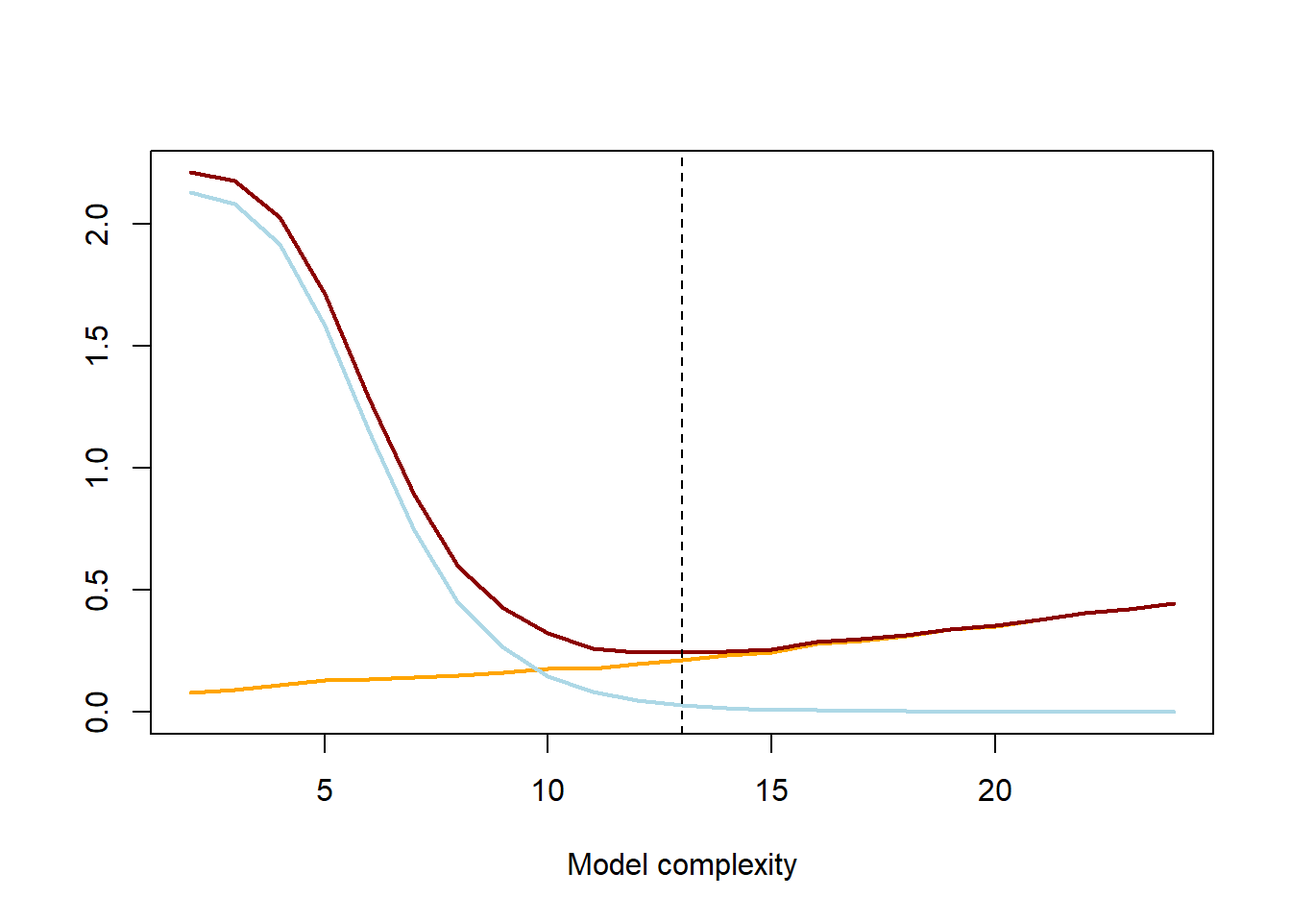
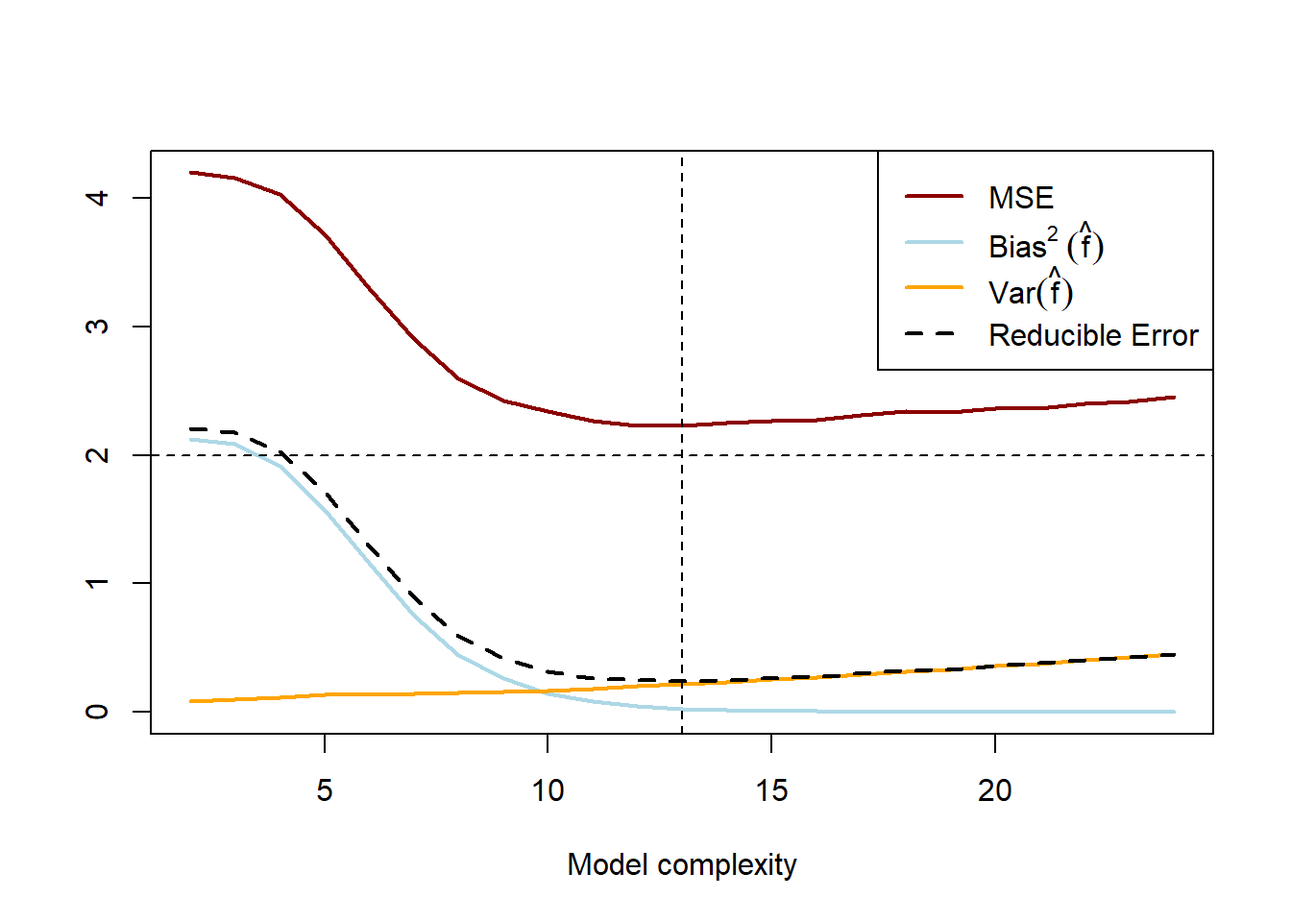
Done up until 2.2

diff --git a/docs/supervised-learning.html b/docs/supervised-learning.html
@@ -276,8 +276,7 @@ E\left\{\left[\hat{f} - E(\hat{f})\right] \left[E(\hat{f}) - f\right]\right\} &a
 <div id="example-1-simulation-1" class="section level3 hasAnchor" number="2.1.1">
 <h3><span class="header-section-number">2.1.1</span> Example 1 – Simulation 1<a href="supervised-learning.html#example-1-simulation-1" class="anchor-section" aria-label="Anchor link to header"></a></h3>
 <p>To allow for easy visualisation, let us consider a simple model with only one feature:</p>
-<p><span class="math display">\[Y = X + 2\cos(5X) + \epsilon,\]</span>
-where <span class="math inline">\(\epsilon \sim N(0, 2)\)</span>.</p>
+<p><span class="math display">\[Y = X + 2\cos(5X) + \epsilon,\]</span> where <span class="math inline">\(\epsilon \sim N(0, 2)\)</span>.</p>
 <p>Below we simulate <span class="math inline">\(n = 100\)</span> observations from <span class="math inline">\(X \sim U(-2,2)\)</span>, to which we fit cubic smoothing splines of increasing complexity. [Splines are beyond the scope of this course, but provide an easy-to-see illustration of “flexibility”]</p>
 <div class="sourceCode" id="cb1"><pre class="sourceCode r"><code class="sourceCode r"><span id="cb1-1"><a href="supervised-learning.html#cb1-1" aria-hidden="true" tabindex="-1"></a><span class="fu">set.seed</span>(<span class="dv">4026</span>)</span>
 <span id="cb1-2"><a href="supervised-learning.html#cb1-2" aria-hidden="true" tabindex="-1"></a></span>
@@ -299,26 +298,26 @@ where <span class="math inline">\(\epsilon \sim N(0, 2)\)</span>.</p>
 <span id="cb1-18"><a href="supervised-learning.html#cb1-18" aria-hidden="true" tabindex="-1"></a>  <span class="fu">legend</span>(<span class="st">&#39;bottomright&#39;</span>, <span class="fu">c</span>(<span class="st">&#39;f(x) - True&#39;</span>, <span class="fu">expression</span>(<span class="fu">hat</span>(f)(x) <span class="sc">~</span> <span class="st">&#39;- Cubic spline&#39;</span>)), </span>
 <span id="cb1-19"><a href="supervised-learning.html#cb1-19" aria-hidden="true" tabindex="-1"></a>         <span class="at">col =</span> <span class="fu">c</span>(<span class="st">&#39;black&#39;</span>, <span class="st">&#39;blue&#39;</span>), <span class="at">lty =</span> <span class="dv">1</span>, <span class="at">lwd =</span> <span class="dv">2</span>)</span>
 <span id="cb1-20"><a href="supervised-learning.html#cb1-20" aria-hidden="true" tabindex="-1"></a>}</span></code></pre></div>
-<p><img src="figs/unnamed-chunk-144-.gif" width="672" /></p>
+<p><img src="figs/unnamed-chunk-2-.gif" width="672" /></p>
 <p>This serves to illustrate how the model’s degrees of freedom is directly proportional to the model’s complexity. However, to extricate the bias and variance components, we need to observe these models’ fit on out-of-sample data across many random realisations of training samples.</p>
-<p>In the following simulation we again observe <span class="math inline">\(n=100\)</span> training observations at a time, to which the same models of varying complexity as above are fitted. Each model’s fit is then assessed on a fixed set of <span class="math inline">\(100\)</span> testing observations. This process is repeated <span class="math inline">\(250\)</span> times, such that we can keep track of how each test observation’s predictions vary across the iterations, as well as the errors.</p>
+<p>In the following simulation we again observe <span class="math inline">\(n=100\)</span> training observations at a time, to which the same models of varying complexity as above are fitted. Each model’s fit is then assessed on a set of 100 testing observations, where the <span class="math inline">\(\boldsymbol{x}_0\)</span> (and, therefore, true <span class="math inline">\(f(\boldsymbol{x}_0)\)</span>) are fixed, but random noise is added. This process is repeated 1000 times, such that we can keep track of how each test observation’s predictions vary across the iterations, as well as the errors.</p>
 <div class="sourceCode" id="cb2"><pre class="sourceCode r"><code class="sourceCode r"><span id="cb2-1"><a href="supervised-learning.html#cb2-1" aria-hidden="true" tabindex="-1"></a><span class="fu">set.seed</span>(<span class="dv">1</span>)</span>
 <span id="cb2-2"><a href="supervised-learning.html#cb2-2" aria-hidden="true" tabindex="-1"></a></span>
-<span id="cb2-3"><a href="supervised-learning.html#cb2-3" aria-hidden="true" tabindex="-1"></a>n <span class="ot">&lt;-</span> <span class="dv">100</span>        <span class="co">#Sample size</span></span>
-<span id="cb2-4"><a href="supervised-learning.html#cb2-4" aria-hidden="true" tabindex="-1"></a>num_sims <span class="ot">&lt;-</span> <span class="dv">1000</span><span class="co">#Number of iterations</span></span>
-<span id="cb2-5"><a href="supervised-learning.html#cb2-5" aria-hidden="true" tabindex="-1"></a>dofs <span class="ot">&lt;-</span> <span class="dv">2</span><span class="sc">:</span><span class="dv">24</span>    <span class="co">#Model complexities</span></span>
-<span id="cb2-6"><a href="supervised-learning.html#cb2-6" aria-hidden="true" tabindex="-1"></a></span>
-<span id="cb2-7"><a href="supervised-learning.html#cb2-7" aria-hidden="true" tabindex="-1"></a>pred_mat <span class="ot">&lt;-</span> <span class="fu">matrix</span>(<span class="at">nrow =</span> num_sims, <span class="at">ncol =</span> n) <span class="co">#To store each set of predictions</span></span>
-<span id="cb2-8"><a href="supervised-learning.html#cb2-8" aria-hidden="true" tabindex="-1"></a>mses <span class="ot">&lt;-</span> <span class="fu">vector</span>(<span class="at">length =</span> num_sims)     <span class="co">#Also want to track the testing MSEs</span></span>
-<span id="cb2-9"><a href="supervised-learning.html#cb2-9" aria-hidden="true" tabindex="-1"></a>red_err <span class="ot">&lt;-</span> <span class="fu">vector</span>(<span class="at">length =</span> num_sims)  <span class="co">#As well as the reducible error</span></span>
-<span id="cb2-10"><a href="supervised-learning.html#cb2-10" aria-hidden="true" tabindex="-1"></a></span>
-<span id="cb2-11"><a href="supervised-learning.html#cb2-11" aria-hidden="true" tabindex="-1"></a><span class="co">#Herein we will capture the deconstructed components for each model</span></span>
-<span id="cb2-12"><a href="supervised-learning.html#cb2-12" aria-hidden="true" tabindex="-1"></a>results <span class="ot">&lt;-</span> <span class="fu">data.frame</span>(<span class="at">Var =</span> <span class="cn">NA</span>, <span class="at">Bias2 =</span> <span class="cn">NA</span>, <span class="at">Red_err =</span> <span class="cn">NA</span>, <span class="at">MSE =</span> <span class="cn">NA</span>)</span>
-<span id="cb2-13"><a href="supervised-learning.html#cb2-13" aria-hidden="true" tabindex="-1"></a></span>
-<span id="cb2-14"><a href="supervised-learning.html#cb2-14" aria-hidden="true" tabindex="-1"></a><span class="co">#Testing data</span></span>
-<span id="cb2-15"><a href="supervised-learning.html#cb2-15" aria-hidden="true" tabindex="-1"></a>x_test <span class="ot">&lt;-</span> <span class="fu">runif</span>(n, <span class="sc">-</span><span class="dv">2</span>, <span class="dv">2</span>)</span>
-<span id="cb2-16"><a href="supervised-learning.html#cb2-16" aria-hidden="true" tabindex="-1"></a>f_test <span class="ot">&lt;-</span> x_test <span class="sc">+</span> <span class="dv">2</span><span class="sc">*</span><span class="fu">cos</span>(<span class="dv">5</span><span class="sc">*</span>x_test) <span class="co">#This is the part we don&#39;t know outside sims!!</span></span>
-<span id="cb2-17"><a href="supervised-learning.html#cb2-17" aria-hidden="true" tabindex="-1"></a>y_test <span class="ot">&lt;-</span> f_test <span class="sc">+</span> <span class="fu">rnorm</span>(n, <span class="at">sd =</span> <span class="fu">sqrt</span>(<span class="dv">2</span>))</span>
+<span id="cb2-3"><a href="supervised-learning.html#cb2-3" aria-hidden="true" tabindex="-1"></a>n <span class="ot">&lt;-</span> <span class="dv">100</span>          <span class="co">#Sample size</span></span>
+<span id="cb2-4"><a href="supervised-learning.html#cb2-4" aria-hidden="true" tabindex="-1"></a>num_sims <span class="ot">&lt;-</span> <span class="dv">1000</span>  <span class="co">#Number of iterations (could be parallelised)</span></span>
+<span id="cb2-5"><a href="supervised-learning.html#cb2-5" aria-hidden="true" tabindex="-1"></a>dofs <span class="ot">&lt;-</span> <span class="dv">2</span><span class="sc">:</span><span class="dv">25</span>      <span class="co">#Model complexities</span></span>
+<span id="cb2-6"><a href="supervised-learning.html#cb2-6" aria-hidden="true" tabindex="-1"></a>var_eps <span class="ot">&lt;-</span> <span class="dv">2</span>      <span class="co">#Var(epsilon): The irreducible error</span></span>
+<span id="cb2-7"><a href="supervised-learning.html#cb2-7" aria-hidden="true" tabindex="-1"></a></span>
+<span id="cb2-8"><a href="supervised-learning.html#cb2-8" aria-hidden="true" tabindex="-1"></a>pred_mat <span class="ot">&lt;-</span> <span class="fu">matrix</span>(<span class="at">nrow =</span> num_sims, <span class="at">ncol =</span> n) <span class="co">#To store each set of predictions</span></span>
+<span id="cb2-9"><a href="supervised-learning.html#cb2-9" aria-hidden="true" tabindex="-1"></a>mses <span class="ot">&lt;-</span> <span class="fu">vector</span>(<span class="at">length =</span> num_sims)             <span class="co">#Also want to track the testing MSEs</span></span>
+<span id="cb2-10"><a href="supervised-learning.html#cb2-10" aria-hidden="true" tabindex="-1"></a>red_err <span class="ot">&lt;-</span> <span class="fu">vector</span>(<span class="at">length =</span> num_sims)          <span class="co">#As well as the reducible error</span></span>
+<span id="cb2-11"><a href="supervised-learning.html#cb2-11" aria-hidden="true" tabindex="-1"></a></span>
+<span id="cb2-12"><a href="supervised-learning.html#cb2-12" aria-hidden="true" tabindex="-1"></a><span class="co">#Herein we will capture the deconstructed components for each model</span></span>
+<span id="cb2-13"><a href="supervised-learning.html#cb2-13" aria-hidden="true" tabindex="-1"></a>results <span class="ot">&lt;-</span> <span class="fu">data.frame</span>(<span class="at">Var =</span> <span class="cn">NA</span>, <span class="at">Bias2 =</span> <span class="cn">NA</span>, <span class="at">Red_err =</span> <span class="cn">NA</span>, <span class="at">MSE =</span> <span class="cn">NA</span>)</span>
+<span id="cb2-14"><a href="supervised-learning.html#cb2-14" aria-hidden="true" tabindex="-1"></a></span>
+<span id="cb2-15"><a href="supervised-learning.html#cb2-15" aria-hidden="true" tabindex="-1"></a><span class="co">#Testing data</span></span>
+<span id="cb2-16"><a href="supervised-learning.html#cb2-16" aria-hidden="true" tabindex="-1"></a>x_test <span class="ot">&lt;-</span> <span class="fu">runif</span>(n, <span class="sc">-</span><span class="dv">2</span>, <span class="dv">2</span>)</span>
+<span id="cb2-17"><a href="supervised-learning.html#cb2-17" aria-hidden="true" tabindex="-1"></a>f_test <span class="ot">&lt;-</span> x_test <span class="sc">+</span> <span class="dv">2</span><span class="sc">*</span><span class="fu">cos</span>(<span class="dv">5</span><span class="sc">*</span>x_test) <span class="co">#This is the part we don&#39;t know outside sims!!</span></span>
 <span id="cb2-18"><a href="supervised-learning.html#cb2-18" aria-hidden="true" tabindex="-1"></a></span>
 <span id="cb2-19"><a href="supervised-learning.html#cb2-19" aria-hidden="true" tabindex="-1"></a>d <span class="ot">&lt;-</span> <span class="dv">0</span> <span class="co">#To keep track of dof iterations, whilst easily changing the range above</span></span>
 <span id="cb2-20"><a href="supervised-learning.html#cb2-20" aria-hidden="true" tabindex="-1"></a></span>
@@ -328,37 +327,67 @@ where <span class="math inline">\(\epsilon \sim N(0, 2)\)</span>.</p>
 <span id="cb2-24"><a href="supervised-learning.html#cb2-24" aria-hidden="true" tabindex="-1"></a>    </span>
 <span id="cb2-25"><a href="supervised-learning.html#cb2-25" aria-hidden="true" tabindex="-1"></a>    <span class="co">#Training data</span></span>
 <span id="cb2-26"><a href="supervised-learning.html#cb2-26" aria-hidden="true" tabindex="-1"></a>    x_train <span class="ot">&lt;-</span> <span class="fu">runif</span>(n, <span class="sc">-</span><span class="dv">2</span>, <span class="dv">2</span>)</span>
-<span id="cb2-27"><a href="supervised-learning.html#cb2-27" aria-hidden="true" tabindex="-1"></a>    y_train <span class="ot">&lt;-</span> x_train <span class="sc">+</span> <span class="dv">2</span><span class="sc">*</span><span class="fu">cos</span>(<span class="dv">5</span><span class="sc">*</span>x_train) <span class="sc">+</span> <span class="fu">rnorm</span>(n, <span class="at">sd =</span> <span class="fu">sqrt</span>(<span class="dv">2</span>))</span>
-<span id="cb2-28"><a href="supervised-learning.html#cb2-28" aria-hidden="true" tabindex="-1"></a>    </span>
-<span id="cb2-29"><a href="supervised-learning.html#cb2-29" aria-hidden="true" tabindex="-1"></a>    <span class="co">#Fit cubic spline</span></span>
-<span id="cb2-30"><a href="supervised-learning.html#cb2-30" aria-hidden="true" tabindex="-1"></a>    spline_mod <span class="ot">&lt;-</span> <span class="fu">smooth.spline</span>(x_train, y_train, <span class="at">df =</span> dof)</span>
+<span id="cb2-27"><a href="supervised-learning.html#cb2-27" aria-hidden="true" tabindex="-1"></a>    y_train <span class="ot">&lt;-</span> x_train <span class="sc">+</span> <span class="dv">2</span><span class="sc">*</span><span class="fu">cos</span>(<span class="dv">5</span><span class="sc">*</span>x_train) <span class="sc">+</span> <span class="fu">rnorm</span>(n, <span class="at">sd =</span> <span class="fu">sqrt</span>(var_eps))</span>
+<span id="cb2-28"><a href="supervised-learning.html#cb2-28" aria-hidden="true" tabindex="-1"></a></span>
+<span id="cb2-29"><a href="supervised-learning.html#cb2-29" aria-hidden="true" tabindex="-1"></a>    <span class="co">#Add the noise</span></span>
+<span id="cb2-30"><a href="supervised-learning.html#cb2-30" aria-hidden="true" tabindex="-1"></a>    y_test <span class="ot">&lt;-</span> f_test <span class="sc">+</span> <span class="fu">rnorm</span>(n, <span class="at">sd =</span> <span class="fu">sqrt</span>(var_eps))</span>
 <span id="cb2-31"><a href="supervised-learning.html#cb2-31" aria-hidden="true" tabindex="-1"></a>    </span>
-<span id="cb2-32"><a href="supervised-learning.html#cb2-32" aria-hidden="true" tabindex="-1"></a>    <span class="co">#Predict on OOS data</span></span>
-<span id="cb2-33"><a href="supervised-learning.html#cb2-33" aria-hidden="true" tabindex="-1"></a>    yhat <span class="ot">&lt;-</span> <span class="fu">predict</span>(spline_mod, x_test)<span class="sc">$</span>y</span>
+<span id="cb2-32"><a href="supervised-learning.html#cb2-32" aria-hidden="true" tabindex="-1"></a>    <span class="co">#Fit cubic spline</span></span>
+<span id="cb2-33"><a href="supervised-learning.html#cb2-33" aria-hidden="true" tabindex="-1"></a>    spline_mod <span class="ot">&lt;-</span> <span class="fu">smooth.spline</span>(x_train, y_train, <span class="at">df =</span> dof)</span>
 <span id="cb2-34"><a href="supervised-learning.html#cb2-34" aria-hidden="true" tabindex="-1"></a>    </span>
-<span id="cb2-35"><a href="supervised-learning.html#cb2-35" aria-hidden="true" tabindex="-1"></a>    <span class="co">#And store</span></span>
-<span id="cb2-36"><a href="supervised-learning.html#cb2-36" aria-hidden="true" tabindex="-1"></a>    pred_mat[iter, ] <span class="ot">&lt;-</span> yhat</span>
-<span id="cb2-37"><a href="supervised-learning.html#cb2-37" aria-hidden="true" tabindex="-1"></a>    red_err[iter] <span class="ot">&lt;-</span> <span class="fu">mean</span>((f_test <span class="sc">-</span> yhat)<span class="sc">^</span><span class="dv">2</span>)</span>
-<span id="cb2-38"><a href="supervised-learning.html#cb2-38" aria-hidden="true" tabindex="-1"></a>    mses[iter] <span class="ot">&lt;-</span> <span class="fu">mean</span>((y_test <span class="sc">-</span> yhat)<span class="sc">^</span><span class="dv">2</span>)</span>
-<span id="cb2-39"><a href="supervised-learning.html#cb2-39" aria-hidden="true" tabindex="-1"></a>  }</span>
-<span id="cb2-40"><a href="supervised-learning.html#cb2-40" aria-hidden="true" tabindex="-1"></a>  </span>
-<span id="cb2-41"><a href="supervised-learning.html#cb2-41" aria-hidden="true" tabindex="-1"></a>  var_fhat <span class="ot">&lt;-</span> <span class="fu">mean</span>(<span class="fu">apply</span>(pred_mat, <span class="dv">2</span>, var)) <span class="co">#E[\hat{f} - E(\hat{f})]^2</span></span>
-<span id="cb2-42"><a href="supervised-learning.html#cb2-42" aria-hidden="true" tabindex="-1"></a>  bias2_fhat <span class="ot">&lt;-</span> <span class="fu">mean</span>((<span class="fu">colMeans</span>(pred_mat) <span class="sc">-</span> f_test)<span class="sc">^</span><span class="dv">2</span>) <span class="co">#[E(\hat{f}) - f]^2</span></span>
-<span id="cb2-43"><a href="supervised-learning.html#cb2-43" aria-hidden="true" tabindex="-1"></a>  reducible <span class="ot">&lt;-</span> <span class="fu">mean</span>(red_err) <span class="co">#E[f - \hat{f}]^2</span></span>
-<span id="cb2-44"><a href="supervised-learning.html#cb2-44" aria-hidden="true" tabindex="-1"></a>  MSE <span class="ot">&lt;-</span> <span class="fu">mean</span>(mses)          <span class="co">#E[y_0 - \hat{f}]^2</span></span>
-<span id="cb2-45"><a href="supervised-learning.html#cb2-45" aria-hidden="true" tabindex="-1"></a>  </span>
-<span id="cb2-46"><a href="supervised-learning.html#cb2-46" aria-hidden="true" tabindex="-1"></a>  results[d, ] <span class="ot">&lt;-</span> <span class="fu">c</span>(var_fhat, bias2_fhat, reducible, MSE)</span>
-<span id="cb2-47"><a href="supervised-learning.html#cb2-47" aria-hidden="true" tabindex="-1"></a>}</span>
-<span id="cb2-48"><a href="supervised-learning.html#cb2-48" aria-hidden="true" tabindex="-1"></a></span>
-<span id="cb2-49"><a href="supervised-learning.html#cb2-49" aria-hidden="true" tabindex="-1"></a><span class="co">#Plot the results</span></span>
-<span id="cb2-50"><a href="supervised-learning.html#cb2-50" aria-hidden="true" tabindex="-1"></a></span>
-<span id="cb2-51"><a href="supervised-learning.html#cb2-51" aria-hidden="true" tabindex="-1"></a><span class="fu">plot</span>(dofs, results<span class="sc">$</span>Var, <span class="st">&#39;l&#39;</span>, <span class="at">col =</span> <span class="st">&#39;orange&#39;</span>, <span class="at">lwd =</span> <span class="dv">2</span>,</span>
-<span id="cb2-52"><a href="supervised-learning.html#cb2-52" aria-hidden="true" tabindex="-1"></a>     <span class="at">xlab =</span> <span class="st">&#39;Model complexity&#39;</span>, <span class="at">ylab =</span> <span class="st">&#39;&#39;</span>, <span class="at">ylim =</span> <span class="fu">c</span>(<span class="dv">0</span>, <span class="fu">max</span>(results[,<span class="sc">-</span><span class="dv">4</span>])))</span>
-<span id="cb2-53"><a href="supervised-learning.html#cb2-53" aria-hidden="true" tabindex="-1"></a><span class="fu">lines</span>(dofs, results<span class="sc">$</span>Bias2, <span class="st">&#39;l&#39;</span>, <span class="at">col =</span> <span class="st">&#39;lightblue&#39;</span>, <span class="at">lwd =</span> <span class="dv">2</span>)</span>
-<span id="cb2-54"><a href="supervised-learning.html#cb2-54" aria-hidden="true" tabindex="-1"></a><span class="fu">lines</span>(dofs, results<span class="sc">$</span>Red_err, <span class="st">&#39;l&#39;</span>, <span class="at">col =</span> <span class="st">&#39;darkred&#39;</span>, <span class="at">lwd =</span> <span class="dv">2</span>)</span>
-<span id="cb2-55"><a href="supervised-learning.html#cb2-55" aria-hidden="true" tabindex="-1"></a><span class="fu">abline</span>(<span class="at">v =</span> dofs[<span class="fu">which.min</span>(results<span class="sc">$</span>Red_err)], <span class="at">lty =</span> <span class="dv">2</span>)</span></code></pre></div>
-<p><img src="figs/unnamed-chunk-145-1.png" width="672" /></p>
-<div class="sourceCode" id="cb3"><pre class="sourceCode r"><code class="sourceCode r"><span id="cb3-1"><a href="supervised-learning.html#cb3-1" aria-hidden="true" tabindex="-1"></a><span class="co"># lines(dofs, results[, 4], &#39;l&#39;, lwd = 2)</span></span></code></pre></div>
+<span id="cb2-35"><a href="supervised-learning.html#cb2-35" aria-hidden="true" tabindex="-1"></a>    <span class="co">#Predict on OOS data</span></span>
+<span id="cb2-36"><a href="supervised-learning.html#cb2-36" aria-hidden="true" tabindex="-1"></a>    yhat <span class="ot">&lt;-</span> <span class="fu">predict</span>(spline_mod, x_test)<span class="sc">$</span>y</span>
+<span id="cb2-37"><a href="supervised-learning.html#cb2-37" aria-hidden="true" tabindex="-1"></a>    </span>
+<span id="cb2-38"><a href="supervised-learning.html#cb2-38" aria-hidden="true" tabindex="-1"></a>    <span class="co">#And store</span></span>
+<span id="cb2-39"><a href="supervised-learning.html#cb2-39" aria-hidden="true" tabindex="-1"></a>    pred_mat[iter, ] <span class="ot">&lt;-</span> yhat</span>
+<span id="cb2-40"><a href="supervised-learning.html#cb2-40" aria-hidden="true" tabindex="-1"></a>    red_err[iter] <span class="ot">&lt;-</span> <span class="fu">mean</span>((f_test <span class="sc">-</span> yhat)<span class="sc">^</span><span class="dv">2</span>)</span>
+<span id="cb2-41"><a href="supervised-learning.html#cb2-41" aria-hidden="true" tabindex="-1"></a>    mses[iter] <span class="ot">&lt;-</span> <span class="fu">mean</span>((y_test <span class="sc">-</span> yhat)<span class="sc">^</span><span class="dv">2</span>)</span>
+<span id="cb2-42"><a href="supervised-learning.html#cb2-42" aria-hidden="true" tabindex="-1"></a>  }</span>
+<span id="cb2-43"><a href="supervised-learning.html#cb2-43" aria-hidden="true" tabindex="-1"></a>  </span>
+<span id="cb2-44"><a href="supervised-learning.html#cb2-44" aria-hidden="true" tabindex="-1"></a>  var_fhat <span class="ot">&lt;-</span> <span class="fu">mean</span>(<span class="fu">apply</span>(pred_mat, <span class="dv">2</span>, var))           <span class="co">#E[\hat{f} - E(\hat{f})]^2</span></span>
+<span id="cb2-45"><a href="supervised-learning.html#cb2-45" aria-hidden="true" tabindex="-1"></a>  bias2_fhat <span class="ot">&lt;-</span> <span class="fu">mean</span>((<span class="fu">colMeans</span>(pred_mat) <span class="sc">-</span> f_test)<span class="sc">^</span><span class="dv">2</span>) <span class="co">#E[E(\hat{f}) - f]^2</span></span>
+<span id="cb2-46"><a href="supervised-learning.html#cb2-46" aria-hidden="true" tabindex="-1"></a>  reducible <span class="ot">&lt;-</span> <span class="fu">mean</span>(red_err)                          <span class="co">#E[f - \hat{f}]^2</span></span>
+<span id="cb2-47"><a href="supervised-learning.html#cb2-47" aria-hidden="true" tabindex="-1"></a>  MSE <span class="ot">&lt;-</span> <span class="fu">mean</span>(mses)                                   <span class="co">#E[y_0 - \hat{f}]^2</span></span>
+<span id="cb2-48"><a href="supervised-learning.html#cb2-48" aria-hidden="true" tabindex="-1"></a>  </span>
+<span id="cb2-49"><a href="supervised-learning.html#cb2-49" aria-hidden="true" tabindex="-1"></a>  results[d, ] <span class="ot">&lt;-</span> <span class="fu">c</span>(var_fhat, bias2_fhat, reducible, MSE)</span>
+<span id="cb2-50"><a href="supervised-learning.html#cb2-50" aria-hidden="true" tabindex="-1"></a>}</span>
+<span id="cb2-51"><a href="supervised-learning.html#cb2-51" aria-hidden="true" tabindex="-1"></a></span>
+<span id="cb2-52"><a href="supervised-learning.html#cb2-52" aria-hidden="true" tabindex="-1"></a><span class="co">#Plot the results</span></span>
+<span id="cb2-53"><a href="supervised-learning.html#cb2-53" aria-hidden="true" tabindex="-1"></a><span class="fu">plot</span>(dofs, results<span class="sc">$</span>MSE, <span class="st">&#39;l&#39;</span>, <span class="at">col =</span> <span class="st">&#39;darkred&#39;</span>, <span class="at">lwd =</span> <span class="dv">2</span>,</span>
+<span id="cb2-54"><a href="supervised-learning.html#cb2-54" aria-hidden="true" tabindex="-1"></a>     <span class="at">xlab =</span> <span class="st">&#39;Model complexity&#39;</span>, <span class="at">ylab =</span> <span class="st">&#39;&#39;</span>, <span class="at">ylim =</span> <span class="fu">c</span>(<span class="dv">0</span>, <span class="fu">max</span>(results)))</span>
+<span id="cb2-55"><a href="supervised-learning.html#cb2-55" aria-hidden="true" tabindex="-1"></a><span class="fu">lines</span>(dofs, results<span class="sc">$</span>Bias2, <span class="st">&#39;l&#39;</span>, <span class="at">col =</span> <span class="st">&#39;lightblue&#39;</span>, <span class="at">lwd =</span> <span class="dv">2</span>)</span>
+<span id="cb2-56"><a href="supervised-learning.html#cb2-56" aria-hidden="true" tabindex="-1"></a><span class="fu">lines</span>(dofs, results<span class="sc">$</span>Var, <span class="st">&#39;l&#39;</span>, <span class="at">col =</span> <span class="st">&#39;orange&#39;</span>, <span class="at">lwd =</span> <span class="dv">2</span>)</span>
+<span id="cb2-57"><a href="supervised-learning.html#cb2-57" aria-hidden="true" tabindex="-1"></a><span class="fu">lines</span>(dofs, results<span class="sc">$</span>Red_err, <span class="st">&#39;l&#39;</span>, <span class="at">lty =</span> <span class="dv">2</span>, <span class="at">lwd =</span> <span class="dv">2</span>)</span>
+<span id="cb2-58"><a href="supervised-learning.html#cb2-58" aria-hidden="true" tabindex="-1"></a><span class="fu">legend</span>(<span class="st">&#39;topright&#39;</span>, </span>
+<span id="cb2-59"><a href="supervised-learning.html#cb2-59" aria-hidden="true" tabindex="-1"></a>       <span class="fu">c</span>(<span class="st">&#39;MSE&#39;</span>, <span class="fu">expression</span>(Bias<span class="sc">^</span><span class="dv">2</span> <span class="sc">~</span> (<span class="fu">hat</span>(f))), <span class="fu">expression</span>(<span class="fu">Var</span>(<span class="fu">hat</span>(f))), <span class="st">&#39;Reducible Error&#39;</span>), </span>
+<span id="cb2-60"><a href="supervised-learning.html#cb2-60" aria-hidden="true" tabindex="-1"></a>       <span class="at">col =</span> <span class="fu">c</span>(<span class="st">&#39;darkred&#39;</span>, <span class="st">&#39;lightblue&#39;</span>, <span class="st">&#39;orange&#39;</span>, <span class="st">&#39;black&#39;</span>), <span class="at">lty =</span> <span class="fu">c</span>(<span class="fu">rep</span>(<span class="dv">1</span>, <span class="dv">3</span>), <span class="dv">2</span>), <span class="at">lwd =</span> <span class="dv">2</span>)</span>
+<span id="cb2-61"><a href="supervised-learning.html#cb2-61" aria-hidden="true" tabindex="-1"></a></span>
+<span id="cb2-62"><a href="supervised-learning.html#cb2-62" aria-hidden="true" tabindex="-1"></a><span class="fu">abline</span>(<span class="at">v =</span> dofs[<span class="fu">which.min</span>(results<span class="sc">$</span>MSE)], <span class="at">lty =</span> <span class="dv">3</span>) <span class="co">#Complexity minimising MSE</span></span>
+<span id="cb2-63"><a href="supervised-learning.html#cb2-63" aria-hidden="true" tabindex="-1"></a><span class="fu">abline</span>(<span class="at">h =</span> var_eps, <span class="at">lty =</span> <span class="dv">3</span>)                      <span class="co">#MSE lower bound</span></span></code></pre></div>
+<div class="figure" style="text-align: center"><span style="display:block;" id="fig:b-v-trade"></span>
+<img src="figs/b-v-trade-1.png" alt="I must still write this figure caption!!" width="576" />
+<p class="caption">
+Figure 2.1: I must still write this figure caption!!
+</p>
+</div>
+<p>As a quick sanity check before interpreting this result, let us add up the components – which were calculated separately – and see whether we indeed observe that <span class="math inline">\(E\left[f - \hat{f} \right]^2 = Var\left[\hat{f}\right] + Bias^2\left[\hat{f}\right]\)</span> and <span class="math inline">\(\text{Test MSE} = E\left[y_0 - \hat{f}\right]^2 = E\left[f - \hat{f} \right]^2 + Var(\epsilon)\)</span>. Note that we will need to have a small tolerance for discrepancy, since we have approximated the expected values by averaging over only 1000 realisations. This approximation will become more accurate as the number of iterations are increased.</p>
+<div class="sourceCode" id="cb3"><pre class="sourceCode r"><code class="sourceCode r"><span id="cb3-1"><a href="supervised-learning.html#cb3-1" aria-hidden="true" tabindex="-1"></a><span class="co">#Is reducible error = var(fhat) + bias^2(fhat)?</span></span>
+<span id="cb3-2"><a href="supervised-learning.html#cb3-2" aria-hidden="true" tabindex="-1"></a><span class="fu">ifelse</span>(<span class="fu">isTRUE</span>(<span class="fu">all.equal</span>(results<span class="sc">$</span>Red_err, </span>
+<span id="cb3-3"><a href="supervised-learning.html#cb3-3" aria-hidden="true" tabindex="-1"></a>                        results<span class="sc">$</span>Var <span class="sc">+</span> results<span class="sc">$</span>Bias2, </span>
+<span id="cb3-4"><a href="supervised-learning.html#cb3-4" aria-hidden="true" tabindex="-1"></a>                        <span class="at">tolerance =</span> <span class="fl">0.001</span>)),</span>
+<span id="cb3-5"><a href="supervised-learning.html#cb3-5" aria-hidden="true" tabindex="-1"></a>       <span class="st">&#39;Happy days! :D&#39;</span>, </span>
+<span id="cb3-6"><a href="supervised-learning.html#cb3-6" aria-hidden="true" tabindex="-1"></a>       <span class="st">&#39;Haibo...&#39;</span>)</span></code></pre></div>
+<pre><code>## [1] &quot;Happy days! :D&quot;</code></pre>
+<div class="sourceCode" id="cb5"><pre class="sourceCode r"><code class="sourceCode r"><span id="cb5-1"><a href="supervised-learning.html#cb5-1" aria-hidden="true" tabindex="-1"></a><span class="co">#Is Test MSE = var(fhat) + bias^2(fhat) + var(eps)?</span></span>
+<span id="cb5-2"><a href="supervised-learning.html#cb5-2" aria-hidden="true" tabindex="-1"></a><span class="fu">ifelse</span>(<span class="fu">isTRUE</span>(<span class="fu">all.equal</span>(results<span class="sc">$</span>MSE, </span>
+<span id="cb5-3"><a href="supervised-learning.html#cb5-3" aria-hidden="true" tabindex="-1"></a>                        results<span class="sc">$</span>Var <span class="sc">+</span> results<span class="sc">$</span>Bias2 <span class="sc">+</span> var_eps, </span>
+<span id="cb5-4"><a href="supervised-learning.html#cb5-4" aria-hidden="true" tabindex="-1"></a>                        <span class="at">tolerance =</span> <span class="fl">0.01</span>)),</span>
+<span id="cb5-5"><a href="supervised-learning.html#cb5-5" aria-hidden="true" tabindex="-1"></a>       <span class="st">&#39;Happy days! :D&#39;</span>, </span>
+<span id="cb5-6"><a href="supervised-learning.html#cb5-6" aria-hidden="true" tabindex="-1"></a>       <span class="st">&#39;Haibo...&#39;</span>)</span></code></pre></div>
+<pre><code>## [1] &quot;Happy days! :D&quot;</code></pre>
+<p>Figure <a href="supervised-learning.html#fig:b-v-trade">2.1</a> illustrates the general error pattern when learning from data: As model complexity/flexibility increases, the variance across multiple training samples increases, whilst the (squared) bias decreases as the estimated function gets closer to the true pattern on average. Note that <span class="math inline">\(E(\epsilon^2) = Var(\epsilon)\)</span> remains constant. This decrease in bias<span class="math inline">\(^2\)</span> initially offsets the increase in variance such that the test MSE initially decreases. However, from some complexity/flexibility of <span class="math inline">\(\hat{f}\)</span>, the decrease in bias<span class="math inline">\(^2\left(\hat{f}\right)\)</span> is offset by the increase in <span class="math inline">\(Var\left(\hat{f}\right)\)</span>, at which point the test MSE starts increasing. This is the <strong>bias-variance trade-off</strong>. In this particular example, we see that of all the cubic splines, one with 13 degrees of freedom most closely captures the underlying pattern in the data, as measured by the test MSE.</p>
+<p>The fundamental challenge in statistical learning is to postulate a model of the data that yields both a low bias and variance, whilst policing the model complexity such that the sum of these error components are minimised.</p>
+<p>In the above example, we knew what the underlying function was as well as the residual variance. However, when modelling data generated in some real-world environment, we do not observe <span class="math inline">\(f\)</span> and therefore cannot explicitly compute the test MSE. In order to estimate the test MSE, we make use of model validation procedures.</p>
 </div>
 </div>
 <div id="model-validation" class="section level2 hasAnchor" number="2.2">

diff --git a/docs/index.html b/docs/index.html
@@ -241,7 +241,7 @@ Section B: Theory and Application of Supervised Learning</p></h1>
 <p>The fields of statistical learning/AI/machine learning/data science/analytics/data mining/deep learning/[insert new buzzword here] are constantly evolving at a rapid pace. Although the core theory and methodology will (should) always be relevant, adaptations to the methods are regularly being developed, along with more efficient and convenient packages for implementation. Therefore, although these notes attempt to introduce you to up-to-date modern frameworks, note that these things change over time.</p>
 <p>Also note that this is by no means an exhaustive exploration of either theory, methods, or application, but it will imbue you with a skill set with which to tackle various problems and provide a solid foundation for further learning.</p>
 <p>These notes draw from various sources, with the theoretical aspects largely relying on <strong>An Introduction to Statistical Learning with Applications in R</strong> <span class="citation">(James et al., 2013)</span> and <strong>Elements of Statistical Learning</strong> <span class="citation">(Hastie et al., 2009)</span>, both of which are freely available <a href="https://www.statlearning.com/">here</a> and <a href="https://hastie.su.domains/ElemStatLearn/">here</a>, respectively.</p>
-<p><img src="figs/unnamed-chunk-143-1.png" width="672" style="display: block; margin: auto;" /></p>
+<p><img src="figs/unnamed-chunk-1-1.png" width="672" style="display: block; margin: auto;" /></p>
 <p>It is recommended that you keep the former on hand, as you will be referred to sections therein for reading. Other sources will be referenced as and when they are used.</p>
 <!-- Perhaps leave the following just for the slides: -->
 <!-- Before we delve into the content, a brief look at the bigger picture might help to contextualise where supervised learning fits in. -->
